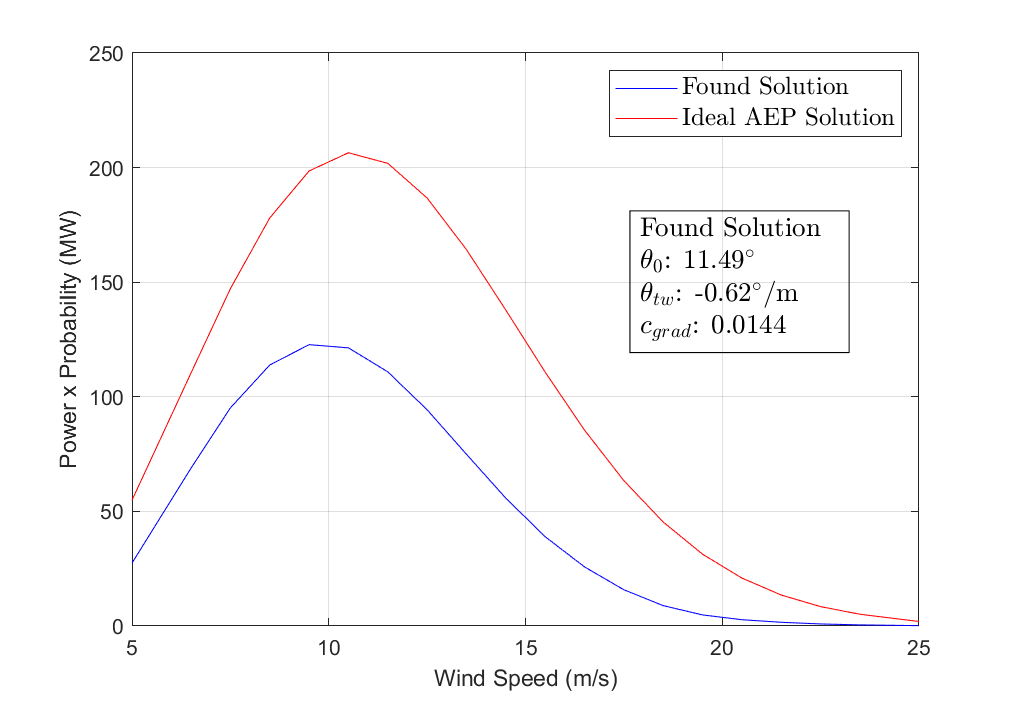
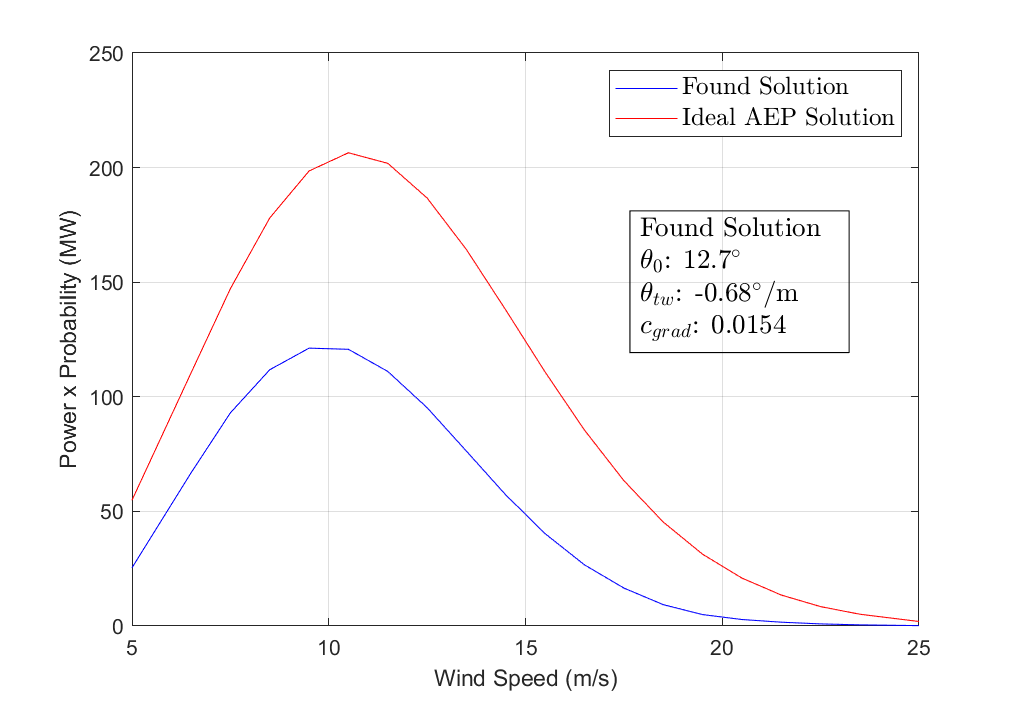
Fix negative powers dominating solutions.
Large, negative powers at low v0 would cause the overall AEP to be negative instead of just shutting down the turbine. This would cause the optima graphs to go mental.

diff --git a/main.m b/main.m
@@ -31,10 +31,10 @@ progressbar('Optimisation');
 opts = optimset('fminsearch');
 opts.Display = 'iter'; %What to display in command window
 opts.TolX = 0.0001; %Tolerance on the variation in the parameters
-opts.TolFun = 100; %Tolerance on the error
+opts.TolFun = 1; %Tolerance on the error
 opts.OutputFcn = @(x,optimValues,state)optMonitor(x,optimValues,state,globaldata); %Tolerance on the error
 opts.MaxIter = globaldata.maxiters-1; %Max number of iterations
-[x, diff, exitflag] = fminsearchbnd(@(x)aepCost(x,globaldata), [deg2rad(11) deg2rad(-0.5) -0.5], [deg2rad(2) deg2rad(-2) -0.1], [deg2rad(20) deg2rad(-0.3) 0.099], opts);
+[x, diff, exitflag] = fminsearchbnd(@(x)aepCost(x,globaldata), [deg2rad(11) deg2rad(-0.5) -0.5], [deg2rad(2) deg2rad(-2) -0.1], [deg2rad(20) deg2rad(0.5) 0.099], opts);
 xdeg=[rad2deg(x(1)),rad2deg(x(2)),x(3)];
 if exitflag==1
     disp('Optimiser SOLVED.');

diff --git a/WTVelocityRange.m b/WTVelocityRange.m
@@ -49,6 +49,9 @@ for vn=1:N
         %disp(['Deflections Exceeded - z: ' num2str(abs(def_zHold(end)))]);
     else
     local_power=0.5*(powerHold(1,vn)+powerHold(1,vn+1));
+        if local_power<0
+            local_power=0;
+        end
     %disp(['Deflections Exceeded - z: ' num2str(abs(def_zHold(end)))]);
     end
     local_prob=windProb(A,k,lowerbandv0,upperbandv0);
@@ -65,6 +68,10 @@ for vn=1:N
 end
 
 AEP=sum(S3(:,4));
+if AEP<0
+    disp(['negative AEP >' num2str(bladeConfig(1)) ' - ' num2str(bladeConfig(2)) ' - ' num2str(bladeConfig(3))]);
+end
+    
 total_diff=sum(S3(:,6));
 
 end

diff --git a/checkOptima.m b/checkOptima.m
@@ -34,8 +34,8 @@ plot(rad2deg(variableSpace),aepHold,'b-');
 globaldata.flags.overrideLimits=false;
 
 %% Changing Theta twist
-N=295;
-variableSpace=linspace(deg2rad(-2),deg2rad(-0.3),N);
+N=300;
+variableSpace=linspace(deg2rad(-1.5),deg2rad(0.5),N);
 aepHold=zeros(1,N);
 progressbar('Finding AEPs - Changing Theta Twist');
 for i=1:N
